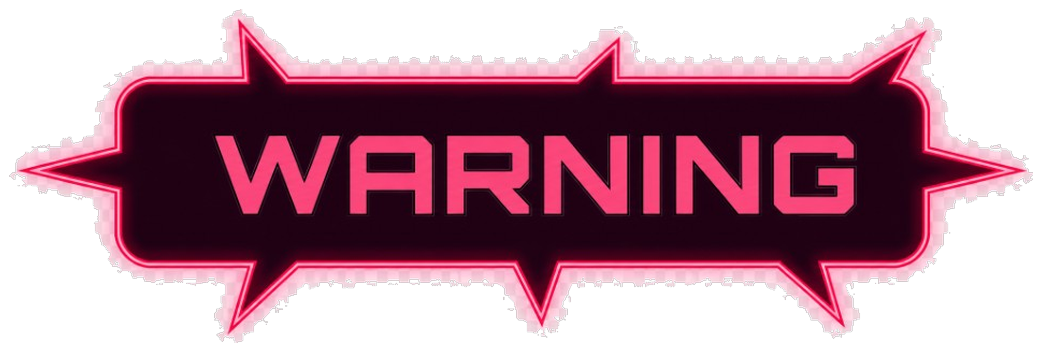
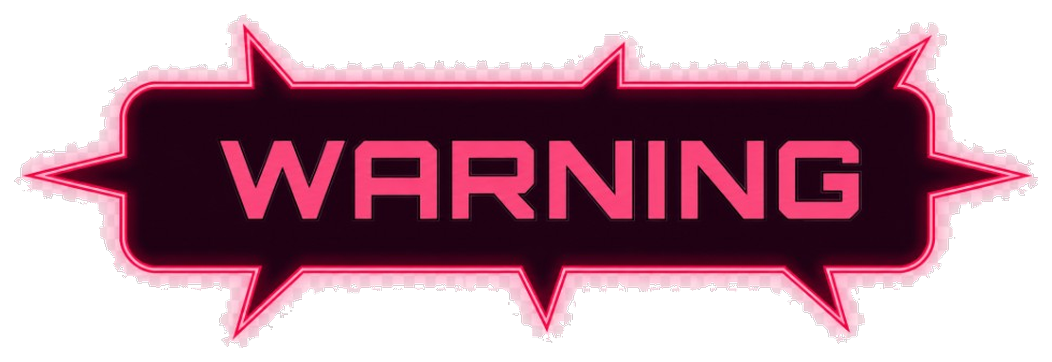
polish(ux): 랭킹 림·일시정지 아이콘·닉/등수/Warning 다듬기
일간 랭킹 스트로크 알파를 올려 자글거림을 줄이고, 점프 시 닉네임을
점프 아트 높이 기준으로 올린다. 일시정지는 || 아이콘만 표시하고,
Warning 흰 테두리는 하드 알파로 재굽는다.

diff --git a/src/render/GameScene.ts b/src/render/GameScene.ts
@@ -741,8 +741,8 @@ export class GameScene extends Phaser.Scene {
     for (let i = 0; i < 3; i++) {
       const lbl = this.add
         .text(0, 0, RANK_TEXT[i]!, {
-          // 14px — 이전 16px에서 살짝 축소(머리 위 과점유 완화).
-          fontSize: "14px",
+          // 12px — 머리 위 과점유 완화(16→14→12).
+          fontSize: "12px",
           fontFamily: FONT_HUD,
           fontStyle: "bold",
           color: RANK_COLORS[i],
@@ -1003,13 +1003,13 @@ export class GameScene extends Phaser.Scene {
         .setDisplaySize(RP_W - inset * 2, RP_H - inset * 2)
         // 시안 칩은 알파를 낮춰 화면 전체와 조화(번쩍임 완화). YOU만 조금 더 또렷.
         .setAlpha(isMe ? 0.88 : 0.62);
-      // 벡터 림 — 화면 전체와 조화되게 알파를 낮춤(번쩍임 완화). YOU만 살짝 더 밝게.
+      // 벡터 림 — 알파를 올려 축소 시 자글거림(저알파 AA)을 줄임. YOU는 더 또렷.
       const rimColor = isMe ? 0xffd35c : 0x36f9f6;
       const rimHi = isMe ? 0xffe9a8 : 0x9afcff;
       const rim = this.add.graphics();
-      rim.lineStyle(2.4, rimColor, isMe ? 0.55 : 0.32);
+      rim.lineStyle(2.6, rimColor, isMe ? 0.85 : 0.72);
       rim.strokeRoundedRect(0.5, 0.5, RP_W - 1, RP_H - 1, 11);
-      rim.lineStyle(1.1, rimHi, isMe ? 0.28 : 0.16);
+      rim.lineStyle(1.2, rimHi, isMe ? 0.55 : 0.42);
       rim.strokeRoundedRect(2, 2, RP_W - 4, RP_H - 4, 9);
       // y: 칩 세로 중앙보다 2px 위 — 네온 림·하단 글로우 때문에 시각 중심이 살짝 아래로 보임
       const txt = this.add
@@ -1120,8 +1120,9 @@ export class GameScene extends Phaser.Scene {
       const colR = PW / 2 + gap / 2 + BW / 2;
       // 아트 구획 y (텍스처 세로 fraction, 실측) → 컨테이너 로컬 좌표
       const fy = (f: number, h: number) => (f - 0.5) * h;
-      // 오렌지 헤더 아래 5행 슬롯 (divider 실측 기반)
+      // 오렌지 헤더 아래 5행 슬롯 — 실측 fraction + 아래로 8px(세로 정렬·헤더 여유)
       const rowFy = [0.302, 0.42, 0.547, 0.668, 0.813] as const;
+      const rowYPad = 8;
       // 네온 림·노치 안쪽까지 글자가 붙지 않게 좌우 인셋 (기존 0.12/0.10 → 살짝 여유)
       const xL = -PW / 2 + Math.round(PW * 0.17);
       const xR = PW / 2 - Math.round(PW * 0.15);
@@ -1159,9 +1160,9 @@ export class GameScene extends Phaser.Scene {
           PH + mattePad * 2,
           matteR,
         );
-        // 시안 soft stroke — 톱니 커버용. 알파는 낮게(결과 화면이 림에 먹히지 않게).
+        // 시안 soft stroke — 알파를 올려 축소 시 자글거림 완화.
         const rim = this.add.graphics();
-        rim.lineStyle(2.0, 0x36f9f6, 0.28);
+        rim.lineStyle(2.2, 0x36f9f6, 0.62);
         rim.strokeRoundedRect(
           -PW / 2 + 3,
           -PH / 2 + 3,
@@ -1169,7 +1170,7 @@ export class GameScene extends Phaser.Scene {
           PH - 6,
           Math.max(12, matteR - 6),
         );
-        rim.lineStyle(1.0, 0x9afcff, 0.16);
+        rim.lineStyle(1.2, 0x9afcff, 0.38);
         rim.strokeRoundedRect(
           -PW / 2 + 5,
           -PH / 2 + 5,
@@ -1197,14 +1198,14 @@ export class GameScene extends Phaser.Scene {
         const rowDists: Phaser.GameObjects.Text[] = [];
         for (let i = 0; i < 4; i++) {
           const name = this.add
-            .text(xL, fy(rowFy[i]!, PH), "", {
+            .text(xL, fy(rowFy[i]!, PH) + rowYPad, "", {
               fontSize: "11px",
               color: "#e0e0e0",
               resolution: TXT_RES,
             })
             .setOrigin(0, 0.5);
           const dist = this.add
-            .text(xR, fy(rowFy[i]!, PH), "", {
+            .text(xR, fy(rowFy[i]!, PH) + rowYPad, "", {
               fontSize: "11px",
               color: "#e0e0e0",
               resolution: TXT_RES,
@@ -1215,7 +1216,7 @@ export class GameScene extends Phaser.Scene {
           children.push(name, dist);
         }
         const myName = this.add
-          .text(xL, fy(rowFy[4]!, PH), "", {
+          .text(xL, fy(rowFy[4]!, PH) + rowYPad, "", {
             fontSize: "11px",
             color: "#ffd700",
             fontStyle: "bold",
@@ -1223,7 +1224,7 @@ export class GameScene extends Phaser.Scene {
           })
           .setOrigin(0, 0.5);
         const myDist = this.add
-          .text(xR, fy(rowFy[4]!, PH), "", {
+          .text(xR, fy(rowFy[4]!, PH) + rowYPad, "", {
             fontSize: "11px",
             color: "#ffd700",
             fontStyle: "bold",
@@ -1333,7 +1334,7 @@ export class GameScene extends Phaser.Scene {
         .setVisible(false);
     }
 
-    // 일시정지 오버레이 — 게임오버 패널 위에 렌더되도록 마지막에 생성
+    // 일시정지 오버레이 — 중앙에 || 정지 아이콘만 (문구·우상단 안내 제거).
     const poBg = this.add.rectangle(
       DESIGN_W / 2,
       DESIGN_H / 2,
@@ -1342,26 +1343,20 @@ export class GameScene extends Phaser.Scene {
       0x000000,
       0.55,
     );
-    const poText = this.add
-      .text(DESIGN_W / 2, DESIGN_H / 2, "일시정지\n탭하여 계속", {
-        fontSize: "28px",
-        color: "#ffffff",
-        fontStyle: "bold",
-        align: "center",
-      })
-      .setOrigin(0.5)
-      .setStroke("#1a1a2e", 6);
-    // 다시하기 버튼 안내 — 우상단 DOM 버튼(↺)과 연동
-    const poRestartHint = this.add
-      .text(DESIGN_W / 2, DESIGN_H / 2 + 54, "↺  우상단 버튼으로 처음부터", {
-        fontSize: "13px",
-        color: "#00e5ff",
-        align: "center",
-      })
-      .setOrigin(0.5)
-      .setAlpha(0.7);
+    // 반투명 흰 세로 막대 2개 = pause 아이콘 (가로바가 아니라 표준 ||)
+    const poIcon = this.add.graphics();
+    {
+      const cx = DESIGN_W / 2;
+      const cy = DESIGN_H / 2;
+      const barW = 14;
+      const barH = 56;
+      const gap = 18;
+      poIcon.fillStyle(0xffffff, 0.72);
+      poIcon.fillRoundedRect(cx - gap / 2 - barW, cy - barH / 2, barW, barH, 4);
+      poIcon.fillRoundedRect(cx + gap / 2, cy - barH / 2, barW, barH, 4);
+    }
     this.pauseOverlay = this.add
-      .container(0, 0, [poBg, poText, poRestartHint])
+      .container(0, 0, [poBg, poIcon])
       .setVisible(false);
 
     // 시작 오버레이 — 판마다 항상 표시. 이력 있으면 최고 등수, 없으면 조작 안내.
@@ -3407,15 +3402,19 @@ export class GameScene extends Phaser.Scene {
           : 0.9
         : 1;
     this.playerRect.setY(toScreenY(s.player.y)).setAlpha(playerAlpha);
-    // 주인공 닉네임: 머리 위 추적. 인트로/게임오버/사망 시 숨김.
+    // 주인공 닉네임: 머리 위 추적. 점프 컷(JUMP_HIT_ART_H)일 땐 더 위로 — 에셋에 가리지 않게.
     if (this.playerNickLabel) {
       const showNick =
         !s.gameOver && !this.introActive && !this.gamePaused;
       this.playerNickLabel.setVisible(showNick);
       if (showNick) {
+        const artH =
+          this.playerRect.texture.key === "player-ride"
+            ? PLAYER_ART_H
+            : JUMP_HIT_ART_H;
         this.playerNickLabel.setPosition(
           toScreenX(C.PLAYER_X),
-          toScreenY(s.player.y) - PLAYER_ART_H - 4,
+          toScreenY(s.player.y) - artH - 8,
         );
         this.playerNickLabel.setAlpha(playerAlpha);
       }

diff --git a/scripts/prep-ui.py b/scripts/prep-ui.py
@@ -37,8 +37,8 @@ HP_FRAME_TARGET_W = 780
 FUEL_CAN_SIZE = 104
 # warn-bubble: 인게임 ~360px 표시 → @3x ≈ 1080 (소스 1024에 가깝게 유지해 다운스케일 뭉개짐 완화)
 WARN_BUBBLE_TARGET_W = 1024
-# 흰 스트로크 두께(소스 해상도 기준 px)
-WARN_STROKE_PX = 5
+# 흰 스트로크 두께(소스 해상도 기준 px) — 두껍게 + 하드 엣지로 자글거림 완화
+WARN_STROKE_PX = 8
 
 
 def _remove_white_bg(im: Image.Image, thresh: int = 238, sat_thresh: float = 0.12) -> Image.Image:
@@ -218,24 +218,26 @@ def prep_fuel_can() -> None:
     print(f"  fuel-can.png → {canvas.size}  (content {tw}×{th})")
 
 
-def _add_white_stroke(im: Image.Image, width: int = 5) -> Image.Image:
-    """실루엣 바깥에 흰 스트로크를 깐다 (알파 마스크 팽창 → 흰 밑판 + 원본 합성)."""
+def _add_white_stroke(im: Image.Image, width: int = 8) -> Image.Image:
+    """실루엣 바깥에 불투명 흰 스트로크를 깐다.
+
+    MaxFilter로 여러 번 팽창한 뒤 원본 알파를 빼 스트로크 마스크를 만들고,
+    알파를 하드컷해 반투명 fringe(축소 시 자글거림 원인)를 제거한다.
+    """
     from PIL import ImageChops, ImageFilter as IF
 
     alpha = im.split()[3]
-    # MaxFilter는 홀수 커널 — 팽창으로 스트로크 두께 확보
-    k = max(3, width * 2 + 1)
-    if k % 2 == 0:
-        k += 1
-    expanded = alpha.filter(IF.MaxFilter(k))
-    # 스트로크만 = 팽창 − 원본 알파
+    expanded = alpha
+    for _ in range(max(1, width)):
+        expanded = expanded.filter(IF.MaxFilter(3))
     stroke_a = ImageChops.subtract(expanded, alpha)
+    # 하드컷 — mid-alpha fringe 제거 (자글거림의 주원인)
+    stroke_a = stroke_a.point(lambda v: 255 if v >= 40 else 0)
+    # 1px만 살짝 블러 후 다시 하드컷 → 초미세 톱니만 완화, 반투명 띠는 안 남김
+    stroke_a = stroke_a.filter(IF.GaussianBlur(0.4))
+    stroke_a = stroke_a.point(lambda v: 255 if v >= 90 else 0)
     stroke = Image.new("RGBA", im.size, (255, 255, 255, 0))
     stroke.putalpha(stroke_a)
-    # 스트로크를 살짝 소프트해 톱니 완화
-    sr, sg, sb, sa = stroke.split()
-    sa = sa.filter(IF.GaussianBlur(0.6))
-    stroke = Image.merge("RGBA", (sr, sg, sb, sa))
     out = Image.new("RGBA", im.size, (0, 0, 0, 0))
     out.alpha_composite(stroke)
     out.alpha_composite(im)
@@ -243,14 +245,11 @@ def _add_white_stroke(im: Image.Image, width: int = 5) -> Image.Image:
 
 
 def prep_warn_bubble() -> None:
-    """암전 WARNING 뱃지 — 흰 배경 → RGBA + 흰 스트로크, 고해상 유지."""
+    """암전 WARNING 뱃지 — 흰 배경 → RGBA + 불투명 흰 스트로크, 고해상 유지."""
     im = Image.open(os.path.join(SRC, "warn-bubble-src.png")).convert("RGBA")
-    # 흰/밝은 회색 배경 제거 (JPEG 압축으로 순백이 아닐 수 있음)
     im = _remove_white_bg(im, thresh=220, sat_thresh=0.12)
-    # 네온 핑크 글로우 가장자리의 밝은 fringe만 가볍게 컷
     im = _defringe(im, alpha_hi=100, lum_hi=200, sat_max=0.20)
     im = _hard_cut_alpha(im, min_alpha=20)
-    # bbox 트림 (약한 글로우 포함)
     amask = im.split()[3].point(lambda v: 255 if v > 10 else 0)
     bb = amask.getbbox()
     if bb:
@@ -258,24 +257,19 @@ def prep_warn_bubble() -> None:
     cw, ch = im.size
     tw = WARN_BUBBLE_TARGET_W
     th = max(1, round(ch * tw / cw))
-    # 소스≈목표면 리사이즈 스킵 — 불필요한 LANCZOS 뭉개짐 방지
     if abs(cw - tw) > 2 or abs(ch - th) > 2:
         im = im.resize((tw, th), Image.LANCZOS)
     else:
         tw, th = cw, ch
-    # 알파 살짝만 — 과블러는 화질 저하 원인
-    r_, g_, b_, a_ = im.split()
-    a_ = a_.filter(ImageFilter.GaussianBlur(0.35))
-    im = Image.merge("RGBA", (r_, g_, b_, a_))
-    im = _hard_cut_alpha(im, min_alpha=14)
-    # 흰 스트로크 — 인게임 대비·윤곽 선명도
-    pad = WARN_STROKE_PX + 4
+    # 본체 알파도 하드에 가깝게 — 외곽 fringe가 스트로크와 섞여 자글거리지 않게
+    im = _hard_cut_alpha(im, min_alpha=28)
+    pad = WARN_STROKE_PX + 6
     canvas = Image.new("RGBA", (im.size[0] + pad * 2, im.size[1] + pad * 2), (0, 0, 0, 0))
     canvas.paste(im, (pad, pad), im)
     im = _add_white_stroke(canvas, width=WARN_STROKE_PX)
     out_path = os.path.join(OUT, "warn-bubble.png")
     im.save(out_path, "PNG")
-    print(f"  warn-bubble.png → {im.size}  (content≈{tw}×{th}, white stroke)")
+    print(f"  warn-bubble.png → {im.size}  (content≈{tw}×{th}, hard white stroke)")
 
 
 if __name__ == "__main__":